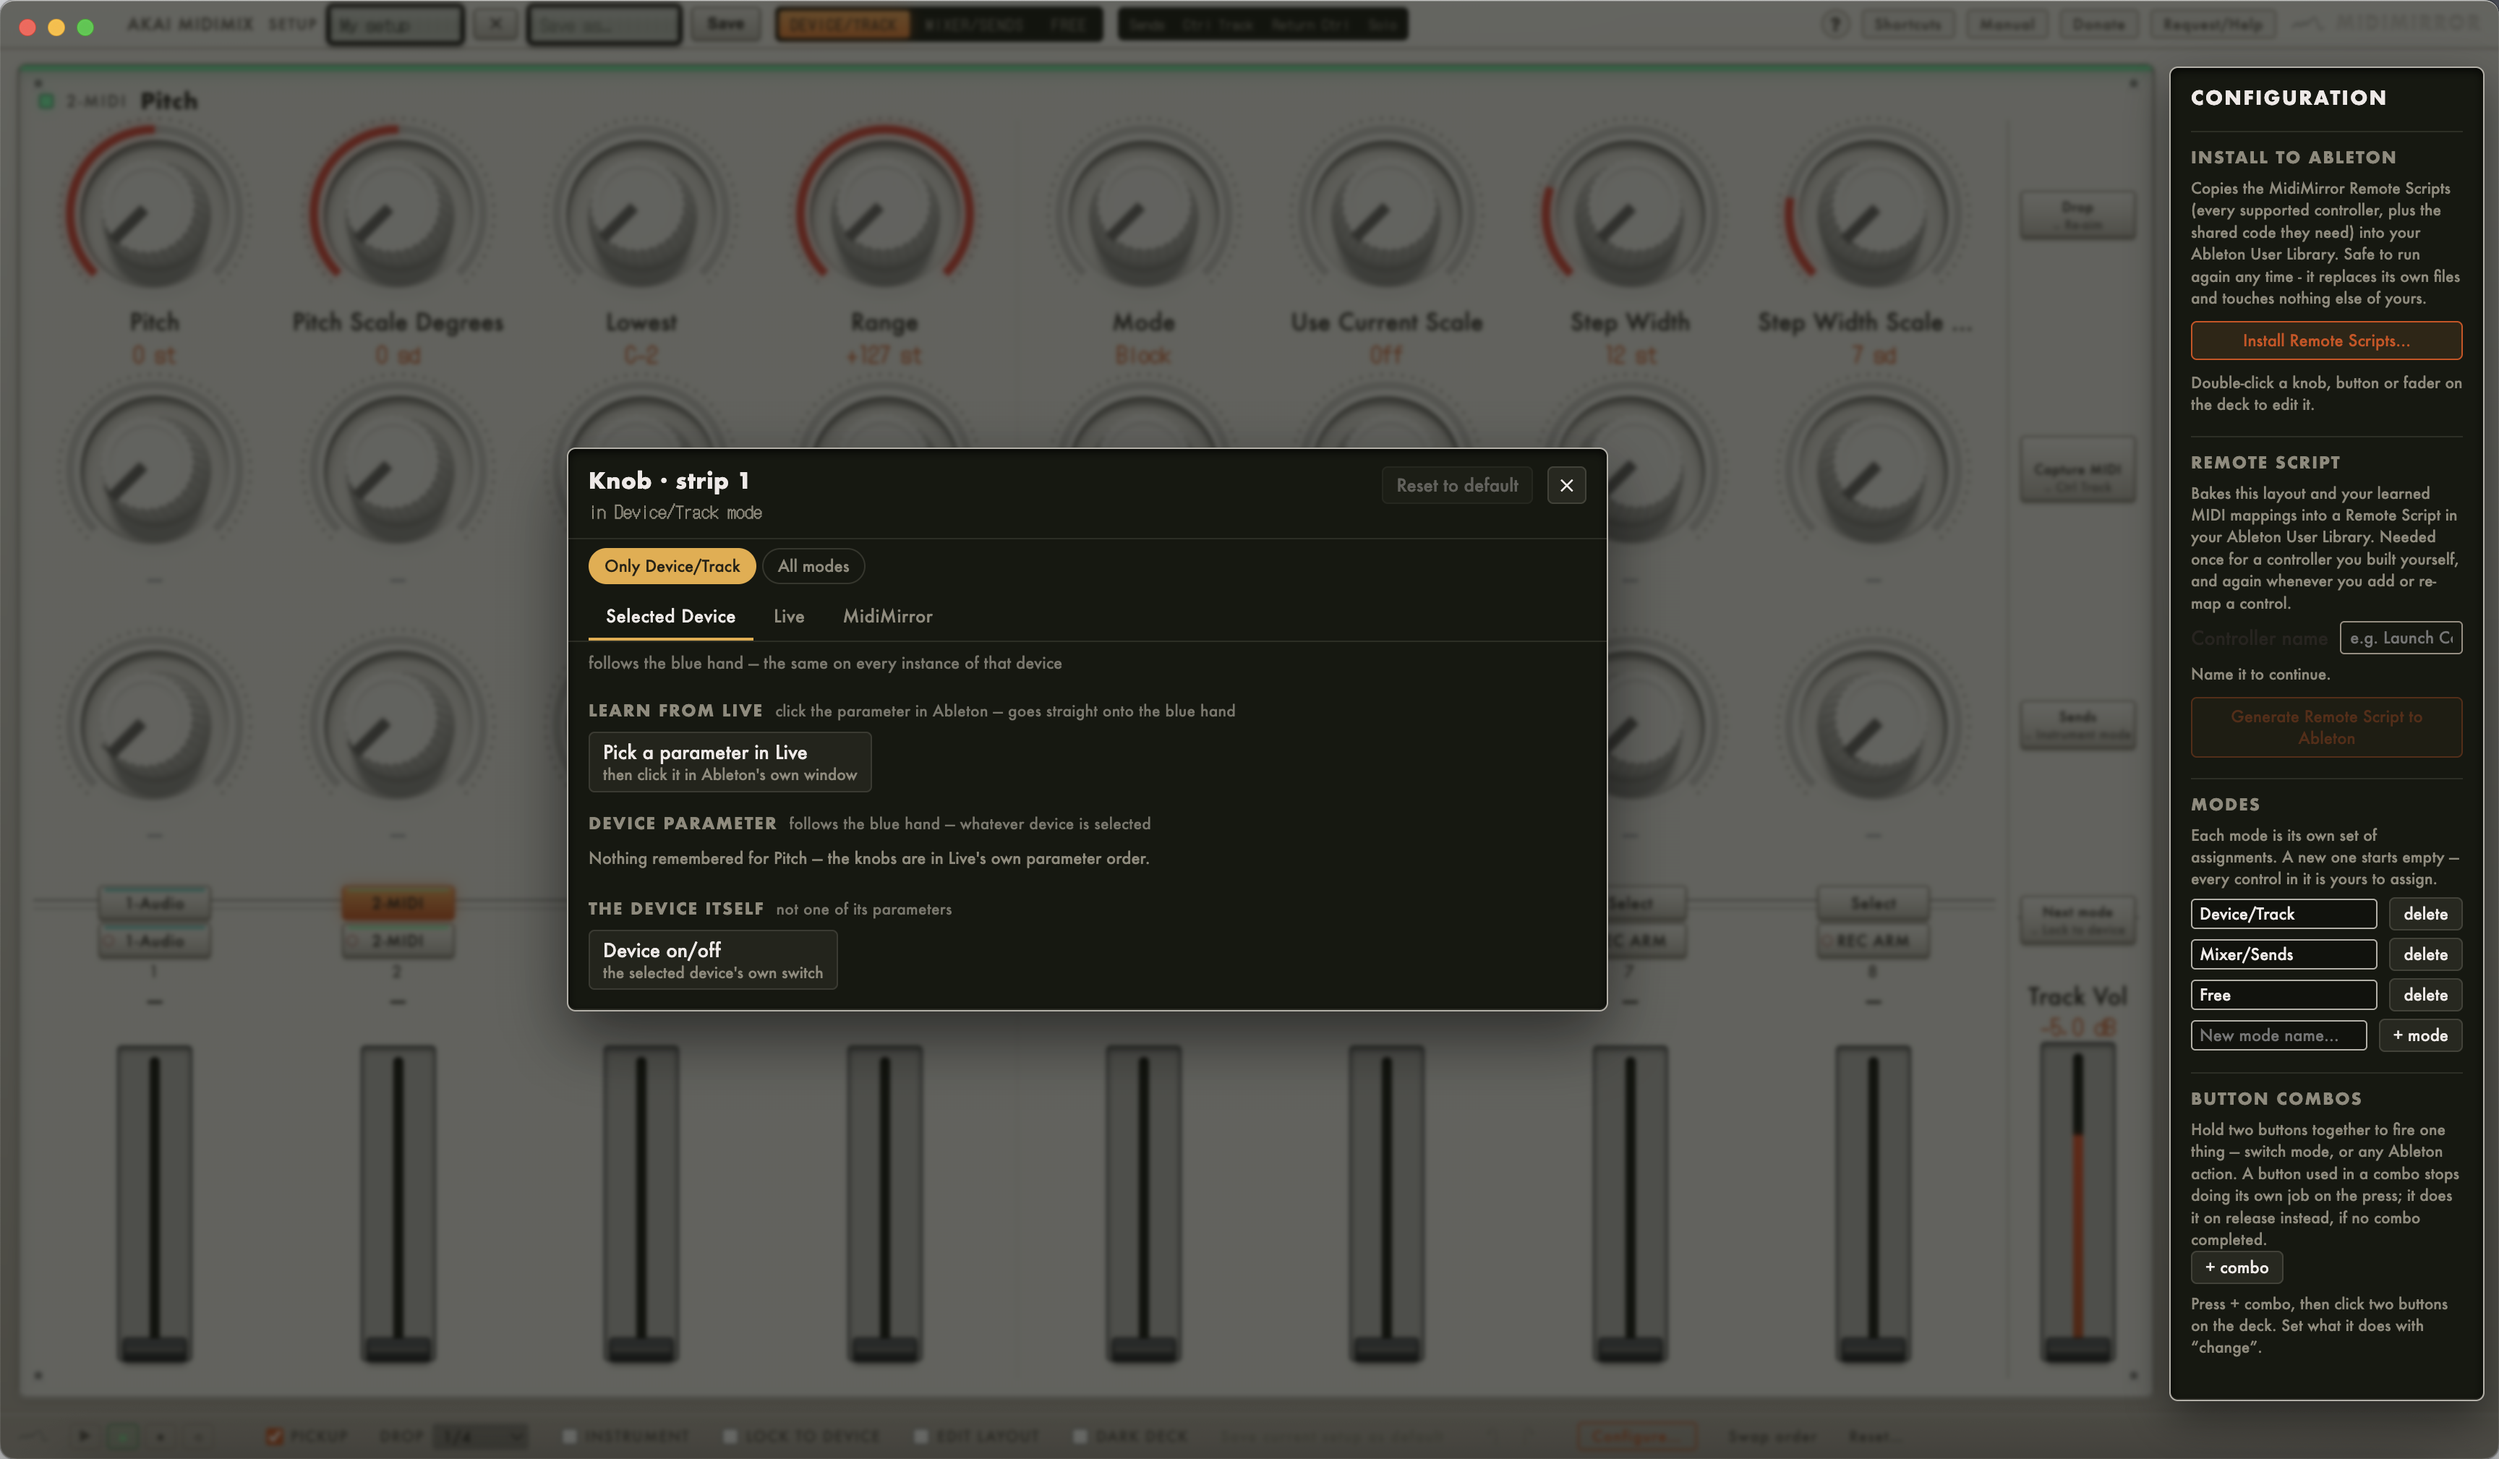
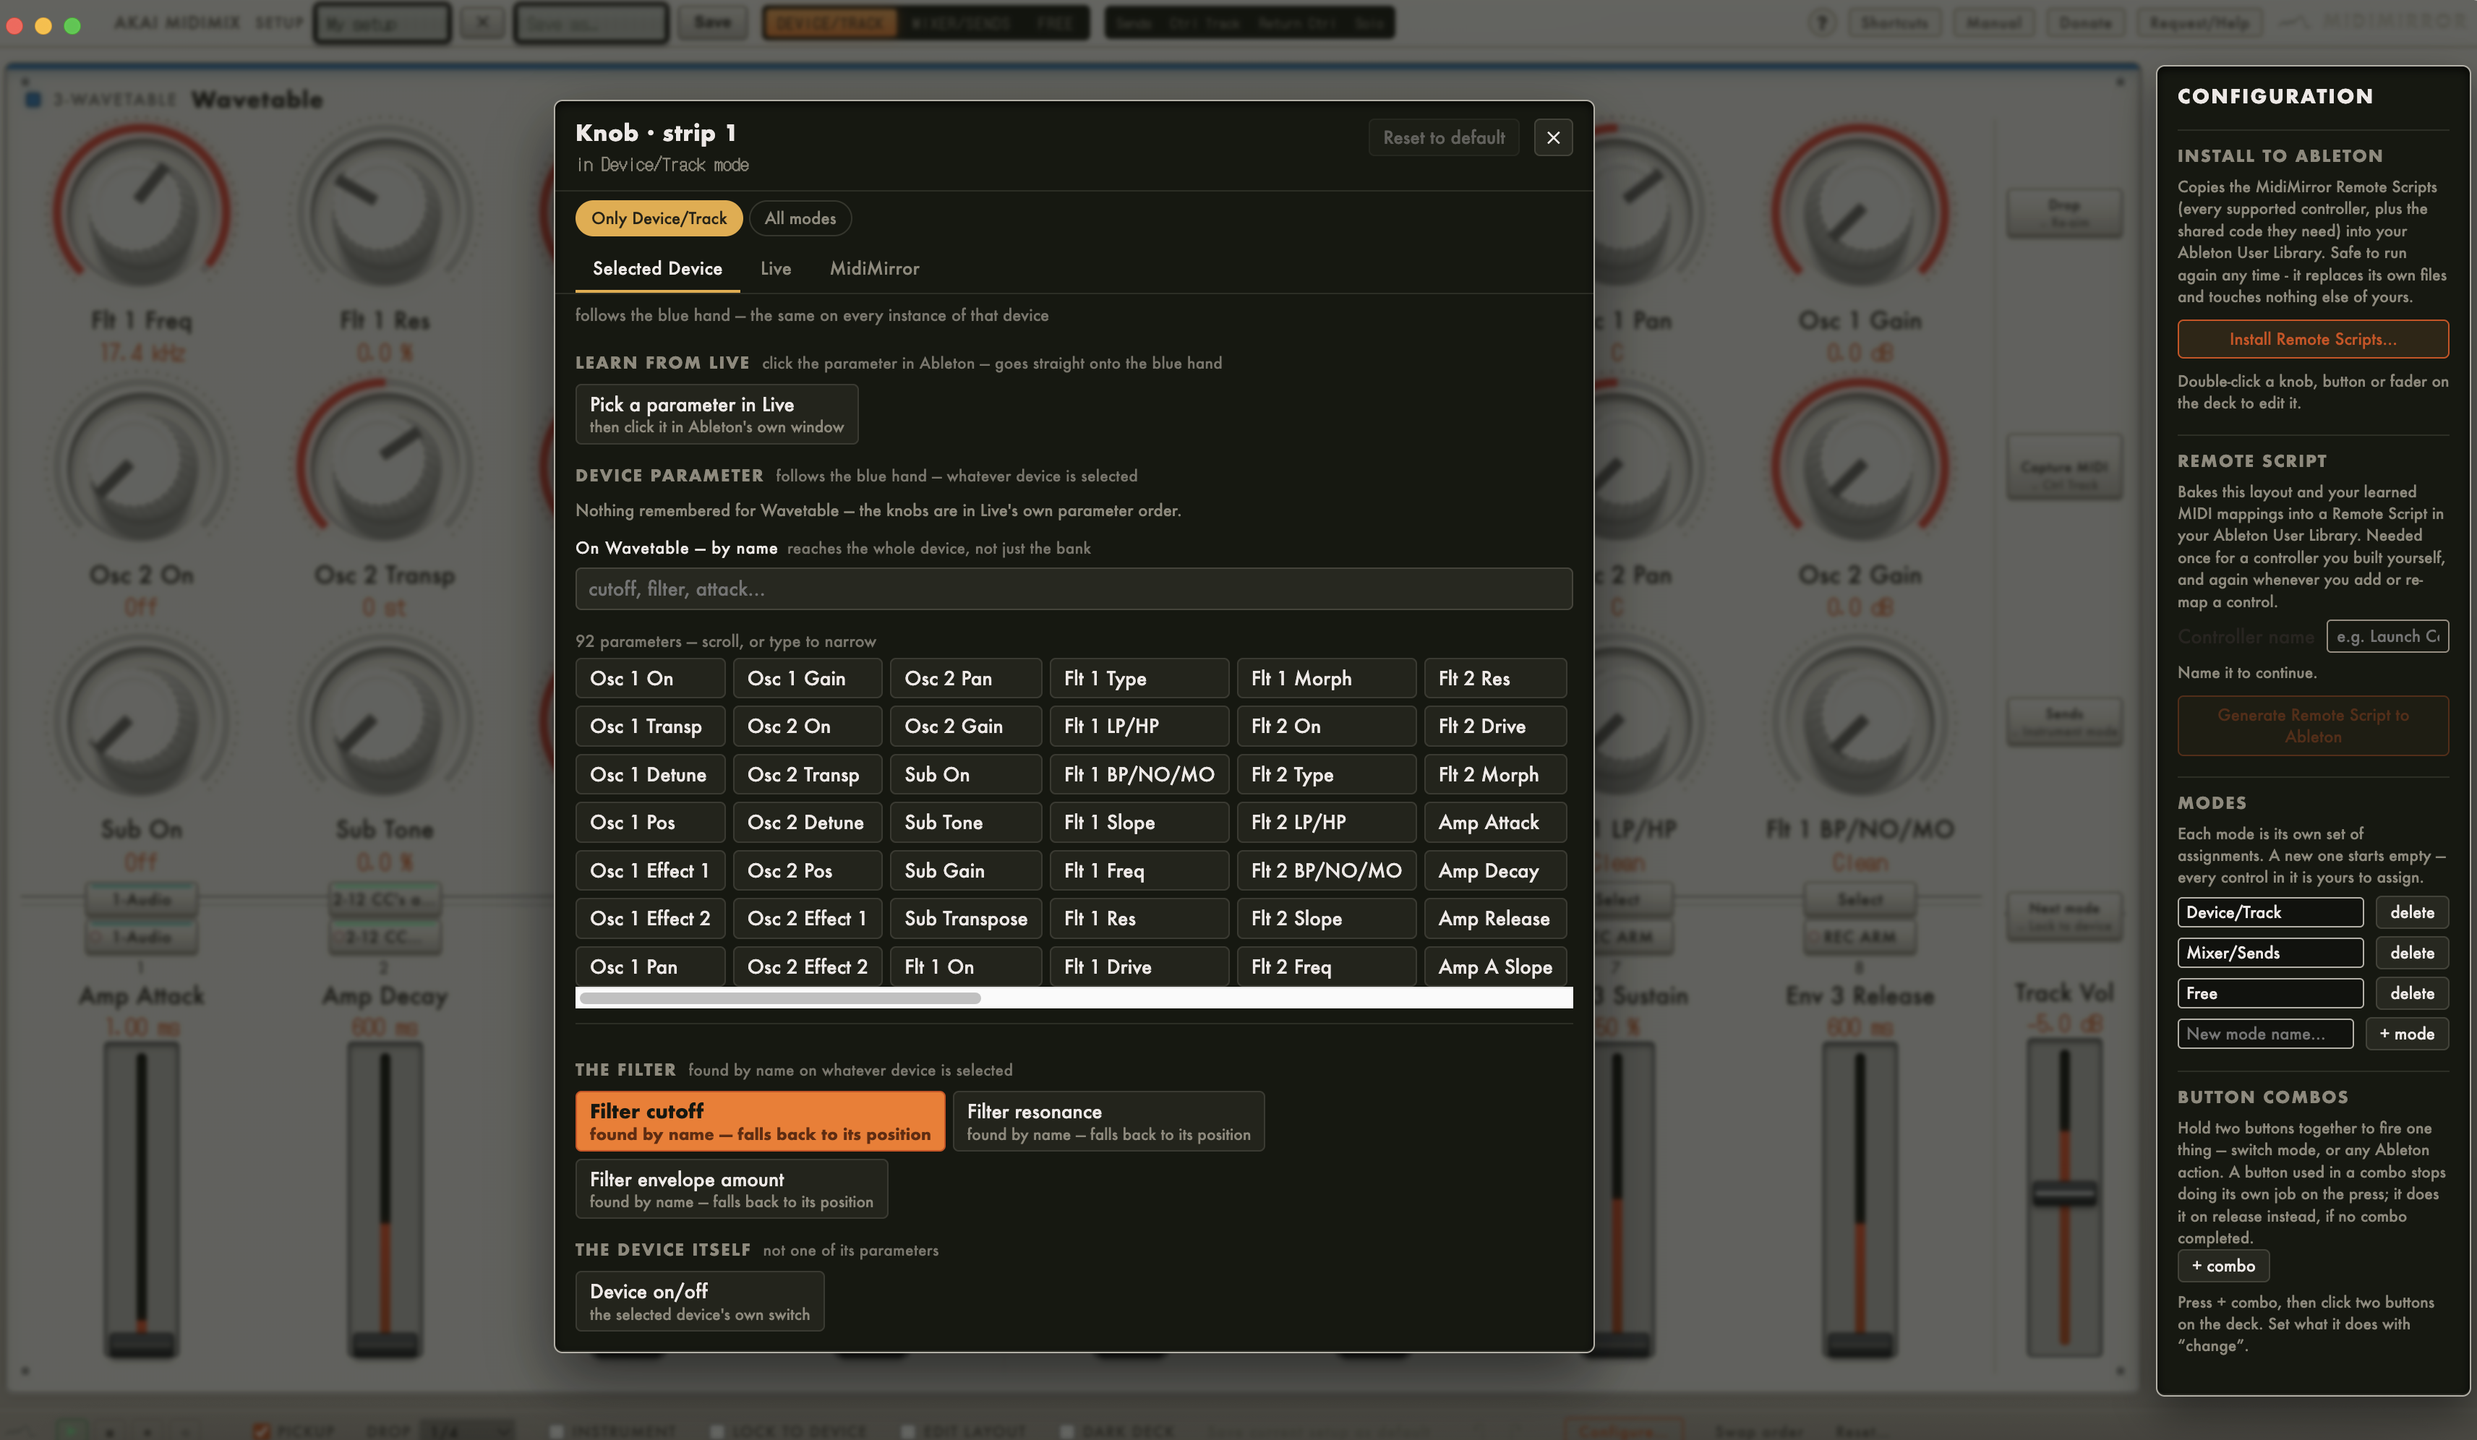
MidiMirror: recapture every Device-mode shot against an instrument, add the drop
The user's instruction was flat: not a single screenshot may show the Pitch
MIDI effect as the addressed device. Pitch is a three-parameter utility, so a
Device-mode shot built on it makes the whole feature look thin -- the knob row
reads "Pitch, Pitch, Lowest, Range" and the mapping screen offers a handful of
parameters where a real instrument offers ninety-two.

Recaptured against a plain Wavetable on its own track, so the deck header reads
3-WAVETABLE / Wavetable and the button in the swap bar reads "Remember this
order for Wavetable" -- which is the point of that panel, since orderKey is the
Live device display name (MidiMirror/visualizer/swap.js around 265).

  midimirror-order.png       swap bar + first knob row, Wavetable
  midimirror-mapping.png     full window with the picker open over Wavetable
  midimirror-map-dialog.png  the picker itself, "Nothing remembered for
                             Wavetable", "On Wavetable -- by name", 92 params
  midimirror-drop.png        NEW -- the snap-back marks, which the page
                             described in prose and never showed

midimirror.png and midimirror-knobs.png were already Wavetable and are
untouched. Alt text and figcaptions that named Pitch and listed the Pitch
parameter row are rewritten to the new one.

The drop shot is deliberately taken mid-move: the drop is held, then six knobs
were dragged away from where they were stored, so the orange pip sits visibly
[…]

diff --git a/apps/midimirror.html b/apps/midimirror.html
@@ -101,12 +101,12 @@
         </div>
         <figure class="zoom">
           <div class="screen">
-            <img src="../assets/shots/midimirror-order.png" alt="The MidiMirror swap-order bar above a knob row: it reads Drag one control onto another to trade what they do in Device/Track mode, the hardware key each one answers to does not move, with a Remember this order for Pitch button on the right, over eight knobs labelled Pitch, Pitch Scale Degrees, Lowest, Range, Mode, Use Current Scale, Step Width and Step Width Scale" />
+            <img src="../assets/shots/midimirror-order.png" alt="The MidiMirror swap-order bar above a knob row: it reads Drag one control onto another to trade what they do in Device/Track mode, the hardware key each one answers to does not move, with a Remember this order for Wavetable button on the right, over eight knobs labelled Flt 1 Freq, Flt 1 Res, Osc 1 Detune, Osc 1 Pos, Osc 1 Effect 1, Osc 1 Effect 2, Osc 1 Pan and Osc 1 Gain" />
           </div>
           <figcaption>
             Swap the row into the order you want, then
-            <strong>Remember this order for Pitch</strong> — the button names
-            the device in front of you, and from then on that device's
+            <strong>Remember this order for Wavetable</strong> — the button
+            names the device in front of you, and from then on that device's
             parameters land in those places every time it comes up.
           </figcaption>
         </figure>
@@ -116,7 +116,7 @@
 
   <section class="section wrap">
     <div class="screen">
-      <img src="../assets/shots/midimirror-mapping.png" alt="The MidiMirror mapping screen for a knob, with Learn from Live, Device parameter and The filter sections for choosing its job" />
+      <img src="../assets/shots/midimirror-mapping.png" alt="The MidiMirror mapping screen for a knob over the deck with Wavetable in focus, with Learn from Live, Device parameter and The filter sections for choosing its job" />
     </div>
   </section>
 
@@ -216,6 +216,18 @@
             or a line across a fader's well. That answers the only question
             worth asking mid-take: if I hit it now, what happens?
           </p>
+        </div>
+        <figure class="zoom">
+          <div class="screen">
+            <img src="../assets/shots/midimirror-drop.png" alt="Two rows of MidiMirror knobs with a drop stored: the Drop cell on the right is lit orange, and each knob's ring carries a small orange pip at the value it will snap back to, well away from where several of the pointers are now standing" />
+          </div>
+          <figcaption>
+            A drop is held: the orange pip on each ring is where that control
+            snaps back to. Move whatever you like — the mark stays put, so you
+            can always see what one press will undo.
+          </figcaption>
+        </figure>
+        <div class="prose story">
           <p>
             <strong>Hold the drop key to re-aim it.</strong> Keep it down, move
             whatever you want the return to land on, let go, and that is the new
